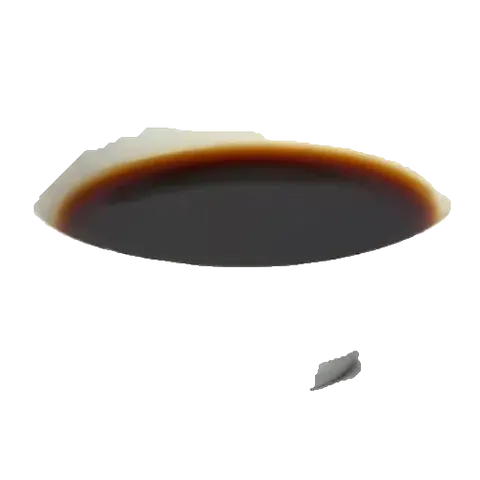
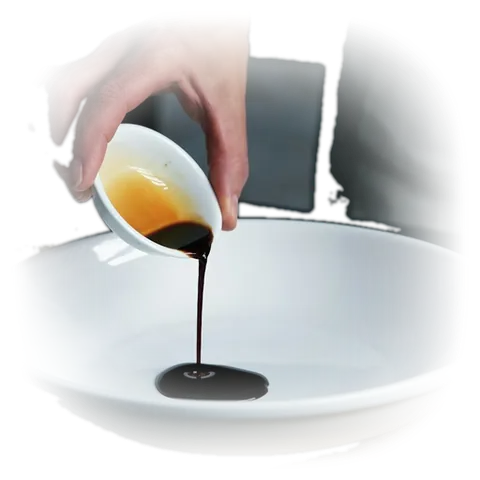
Photos for drinks and sauces
Drinks and sauces show their photos again. Soy sauce and both waters use
free Unsplash photos: the original soy sauce bowl could not be cut cleanly
from its white background, and the waters had no photo at all.

diff --git a/server/render/home.js b/server/render/home.js
@@ -6,8 +6,6 @@ import { page } from './layout.js';
 import { branch } from './ornaments.js';
 import { esc, exists, fill, kanji, money, picture, placeholder } from './util.js';
 
-// These read better as a plain list: their photos have loud backgrounds of their own
-const LIST_CATEGORIES = new Set(['napoje', 'omacky']);
 const EXCLUDES = ['crustaceans', 'fish', 'milk', 'gluten', 'sesame', 'nuts', 'molluscs'];
 const DAY_KEYS = ['mon', 'tue', 'wed', 'thu', 'fri', 'sat', 'sun'];
 
@@ -27,7 +25,6 @@ function dishImage(d, lang) {
 }
 
 function dishCard(d, cat, lang, t) {
-  const compact = LIST_CATEGORIES.has(cat.id);
   const allergens = (d.allergens || []).filter((a) => a !== 'alcohol');
   const sizeBits = [
     d.pieces ? `${d.pieces} ${t.menu.pcs}` : '',
@@ -37,8 +34,8 @@ function dishCard(d, cat, lang, t) {
   const first = d.variants ? d.variants[0] : null;
   const search = [...new Set(['cs', 'uk', 'en'].filter((l) => l !== lang).map((l) => d.name[l]))].filter((n) => n !== d.name[lang]).join(' ');
   const attrs = `data-dish="${esc(d.id)}" data-allergens="${esc((d.allergens || []).join(' '))}" ${search ? `data-alt="${esc(search)}" ` : ''}data-name="${esc(d.name[lang])}"${d.alcohol ? ' data-alcohol' : ''}${first ? '' : ` data-price="${d.price}"`}`;
-  return `<article class="dish${compact ? ' dish--row' : ''}" ${attrs} data-grab-card>
-  ${compact ? '' : dishImage(d, lang)}
+  return `<article class="dish" ${attrs} data-grab-card>
+  ${dishImage(d, lang)}
   <div class="dish__body">
     <h4 class="dish__name">${esc(d.name[lang])}${d.badge === 'new' ? ` <span class="tag">${esc(t.menu.new)}</span>` : ''}${d.alcohol ? ` <span class="tag tag--age">${esc(t.menu.adult)}</span>` : ''}</h4>
     ${d.desc?.[lang] ? `<p class="dish__desc">${esc(d.desc[lang])}</p>` : ''}

diff --git a/public/css/site.css b/public/css/site.css
@@ -228,8 +228,6 @@ p { text-wrap: pretty; }
 .group { font: 700 var(--step-2)/1.1 var(--display); text-transform: uppercase; color: var(--rice-2); padding-top: 18px; border-top: 1px solid var(--line); }
 .dish { display: grid; grid-template-columns: 112px minmax(0, 1fr); gap: 14px; align-items: start; }
 .dish__pic { display: block; }
-.dish--row { display: block; padding-bottom: 14px; border-bottom: 1px solid var(--line); }
-.dish--row .dish__name { font-size: 1.32rem; }
 .dish__img { width: 100%; transition: transform .8s var(--ease); }
 .dish__noimg { display: grid; place-items: center; aspect-ratio: 1; font-size: 2.4rem; }
 .dish__noimg .kanji { opacity: .3; }
@@ -518,8 +516,7 @@ body:not(.is-home) .cookie { bottom: 10px; }
   .dishes { grid-template-columns: repeat(12, minmax(0, 1fr)); grid-auto-flow: dense; gap: clamp(36px, 4vw, 66px) clamp(18px, 2vw, 34px); }
   .group { grid-column: 1 / -1; }
   .dish { grid-column: span 4; grid-template-columns: minmax(0, 1fr); gap: 12px; align-content: start; }
-  .dish:not(.dish--row):nth-child(5n + 3) { margin-top: 36px; }
-  .dish--row .dish__name { font-size: 1.4rem; }
+  .dish:nth-child(5n + 3) { margin-top: 36px; }
   .dish__name { font-size: 1.6rem; }
 
   .promo { padding-inline: clamp(30px, 6vw, 110px); }

diff --git a/DATA_REVIEW.md b/DATA_REVIEW.md
@@ -32,6 +32,7 @@
 17. **Будинок і сад** (`photo_3`, `photo_4` із 2026-09-20). Схоже, випадково потрапили в папку: приватний будинок, авто з номером. Не використані.
 18. **Що я обрізав.** Wi-Fi-наліпки, QR-коди й підставки під пиво. Вуличні кадри з номерами авто на сайті немає, з них узята лише вирізана тарілка.
 19. **Фото страв із MenuForma.** Схожі на стокові або згенеровані, а не зняті у вас. Перевір, що маєш право їх використовувати, бо гості очікуватимуть саме такий вигляд страви. Власна зйомка дала б більше довіри, ніж будь-яка анімація.
+19a. **Фото з Unsplash** (безкоштовна ліцензія, підпис автора не потрібен): гаряча вода (photo-1624633481915), холодна вода (photo-1705838942238), соєвий соус 50 і 100 мл (photo-1499126167718). У MenuForma для соєвого соусу була біла чаша на білому фоні, яку не вийшло акуратно вирізати. Якщо будуть власні фото, заміни.
 20. **Логотип.** Максимум, що є, 512×512 (MenuForma). Для сайту вистачає, але оригінал у векторі буде кращим. Сам малюнок я не міняв, прибрав лише білий квадрат навколо.
 
 ## Меню: що я змінив і що перевірити
